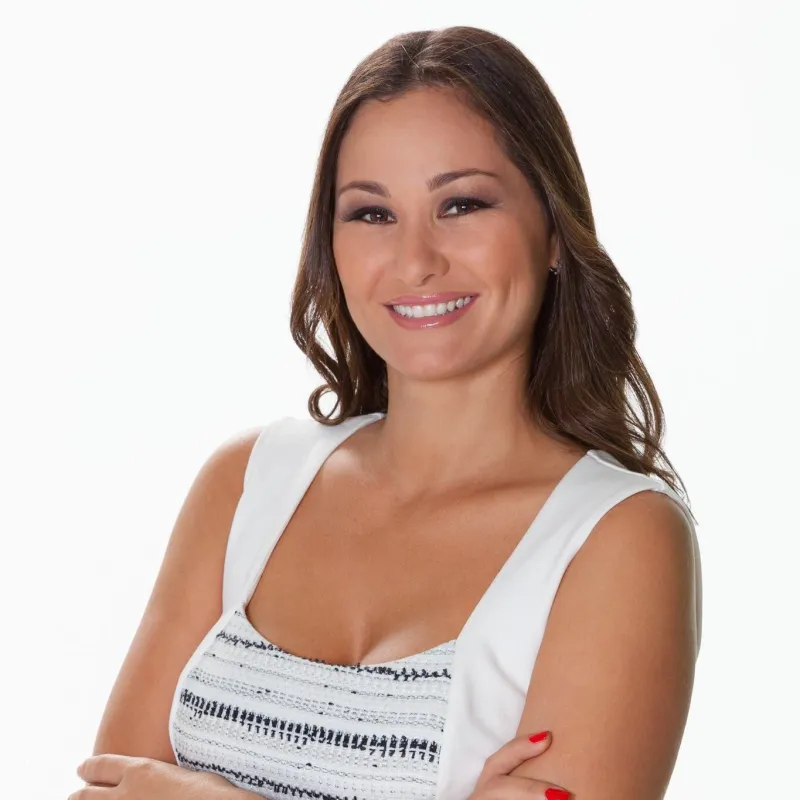
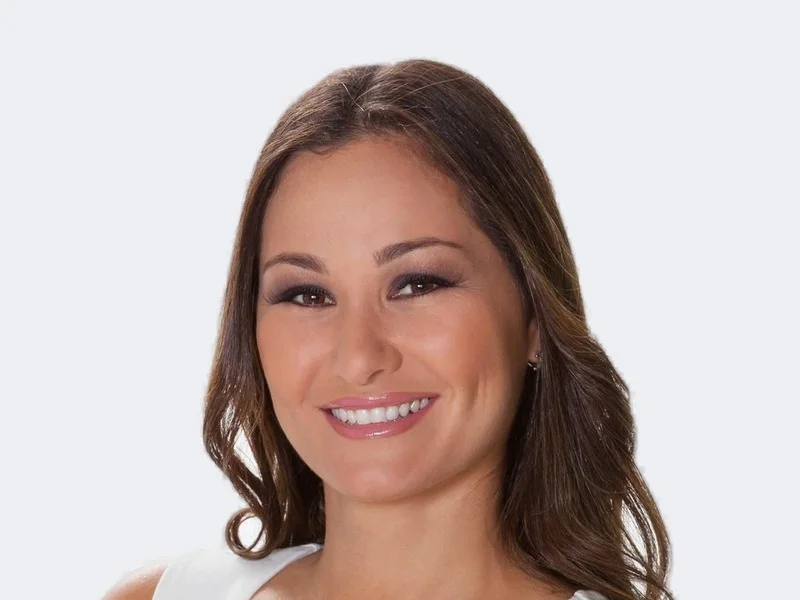
fix(equipo): mismo fondo en las 3 fotos, Tel. y WhatsApp con su número y fichas alineadas (#11)
Pedido de Dominga (5-nov): fondo igual detrás de las tres fotos, número de teléfono y de WhatsApp visibles en cada persona y que los contactos queden parejos.

diff --git a/src/styles/main.css b/src/styles/main.css
@@ -931,3 +931,10 @@ body.has-ticker .contact-ticker { position: fixed; top: 0; left: 0; right: 0; z-
 .loan-card-img { height: 220px; border-radius: var(--radius) var(--radius) 0 0; overflow: hidden; margin: -2rem -2rem 1.25rem -2rem; width: calc(100% + 4rem); }
 .loan-card-img img { width: 100%; height: 100%; object-fit: cover; object-position: center 20%; transition: transform .4s ease; }
 .loan-card:hover .loan-card-img img { transform: scale(1.06); }
+
+/* Equipo: fichas a la misma altura y contactos alineados abajo (5-nov-2026) */
+.team-grid .team-card { display: flex; flex-direction: column; }
+.team-grid .team-photo { background: #ECEEF2; }
+.team-grid .team-info { flex: 1; display: flex; flex-direction: column; }
+.team-grid .team-contact { margin-top: auto; display: flex; flex-direction: column; align-items: stretch; align-self: stretch; text-align: inherit; gap: 4px; }
+.team-grid .team-contact a { white-space: nowrap; }

diff --git a/public/styles/main.css b/public/styles/main.css
@@ -1117,3 +1117,10 @@ body.has-ticker .contact-ticker { position: fixed; top: 0; left: 0; right: 0; z-
   .hero-trust { justify-content: flex-start; }
   .hero-trust-item { text-align: left; }
 }
+
+/* Equipo: fichas a la misma altura y contactos alineados abajo (5-nov-2026) */
+.team-grid .team-card { display: flex; flex-direction: column; }
+.team-grid .team-photo { background: #ECEEF2; }
+.team-grid .team-info { flex: 1; display: flex; flex-direction: column; }
+.team-grid .team-contact { margin-top: auto; display: flex; flex-direction: column; align-items: stretch; align-self: stretch; text-align: inherit; gap: 4px; }
+.team-grid .team-contact a { white-space: nowrap; }
